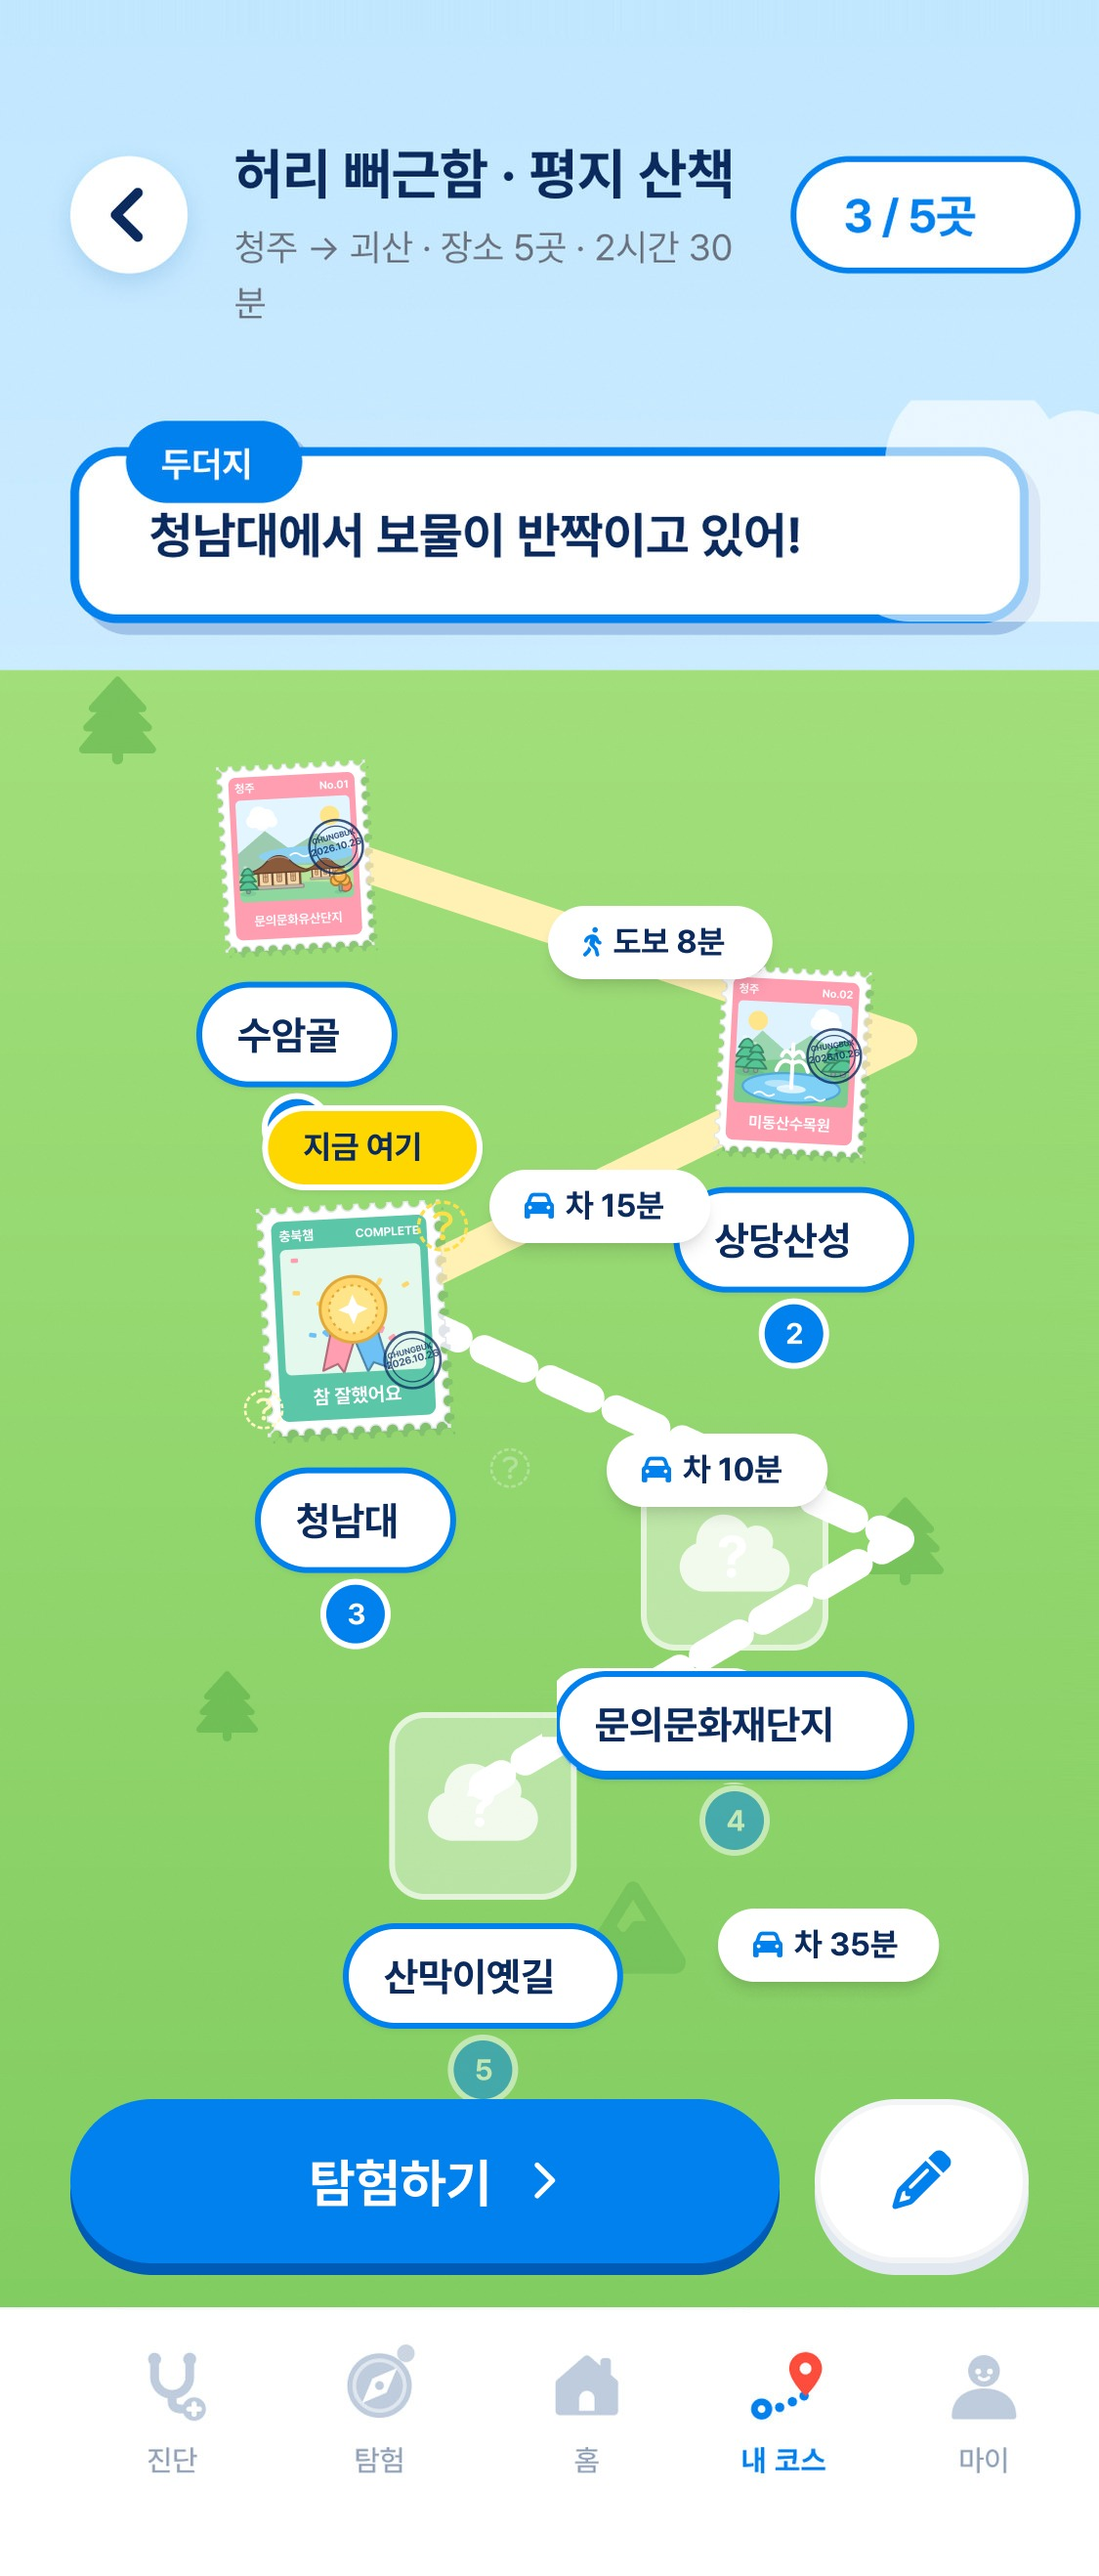
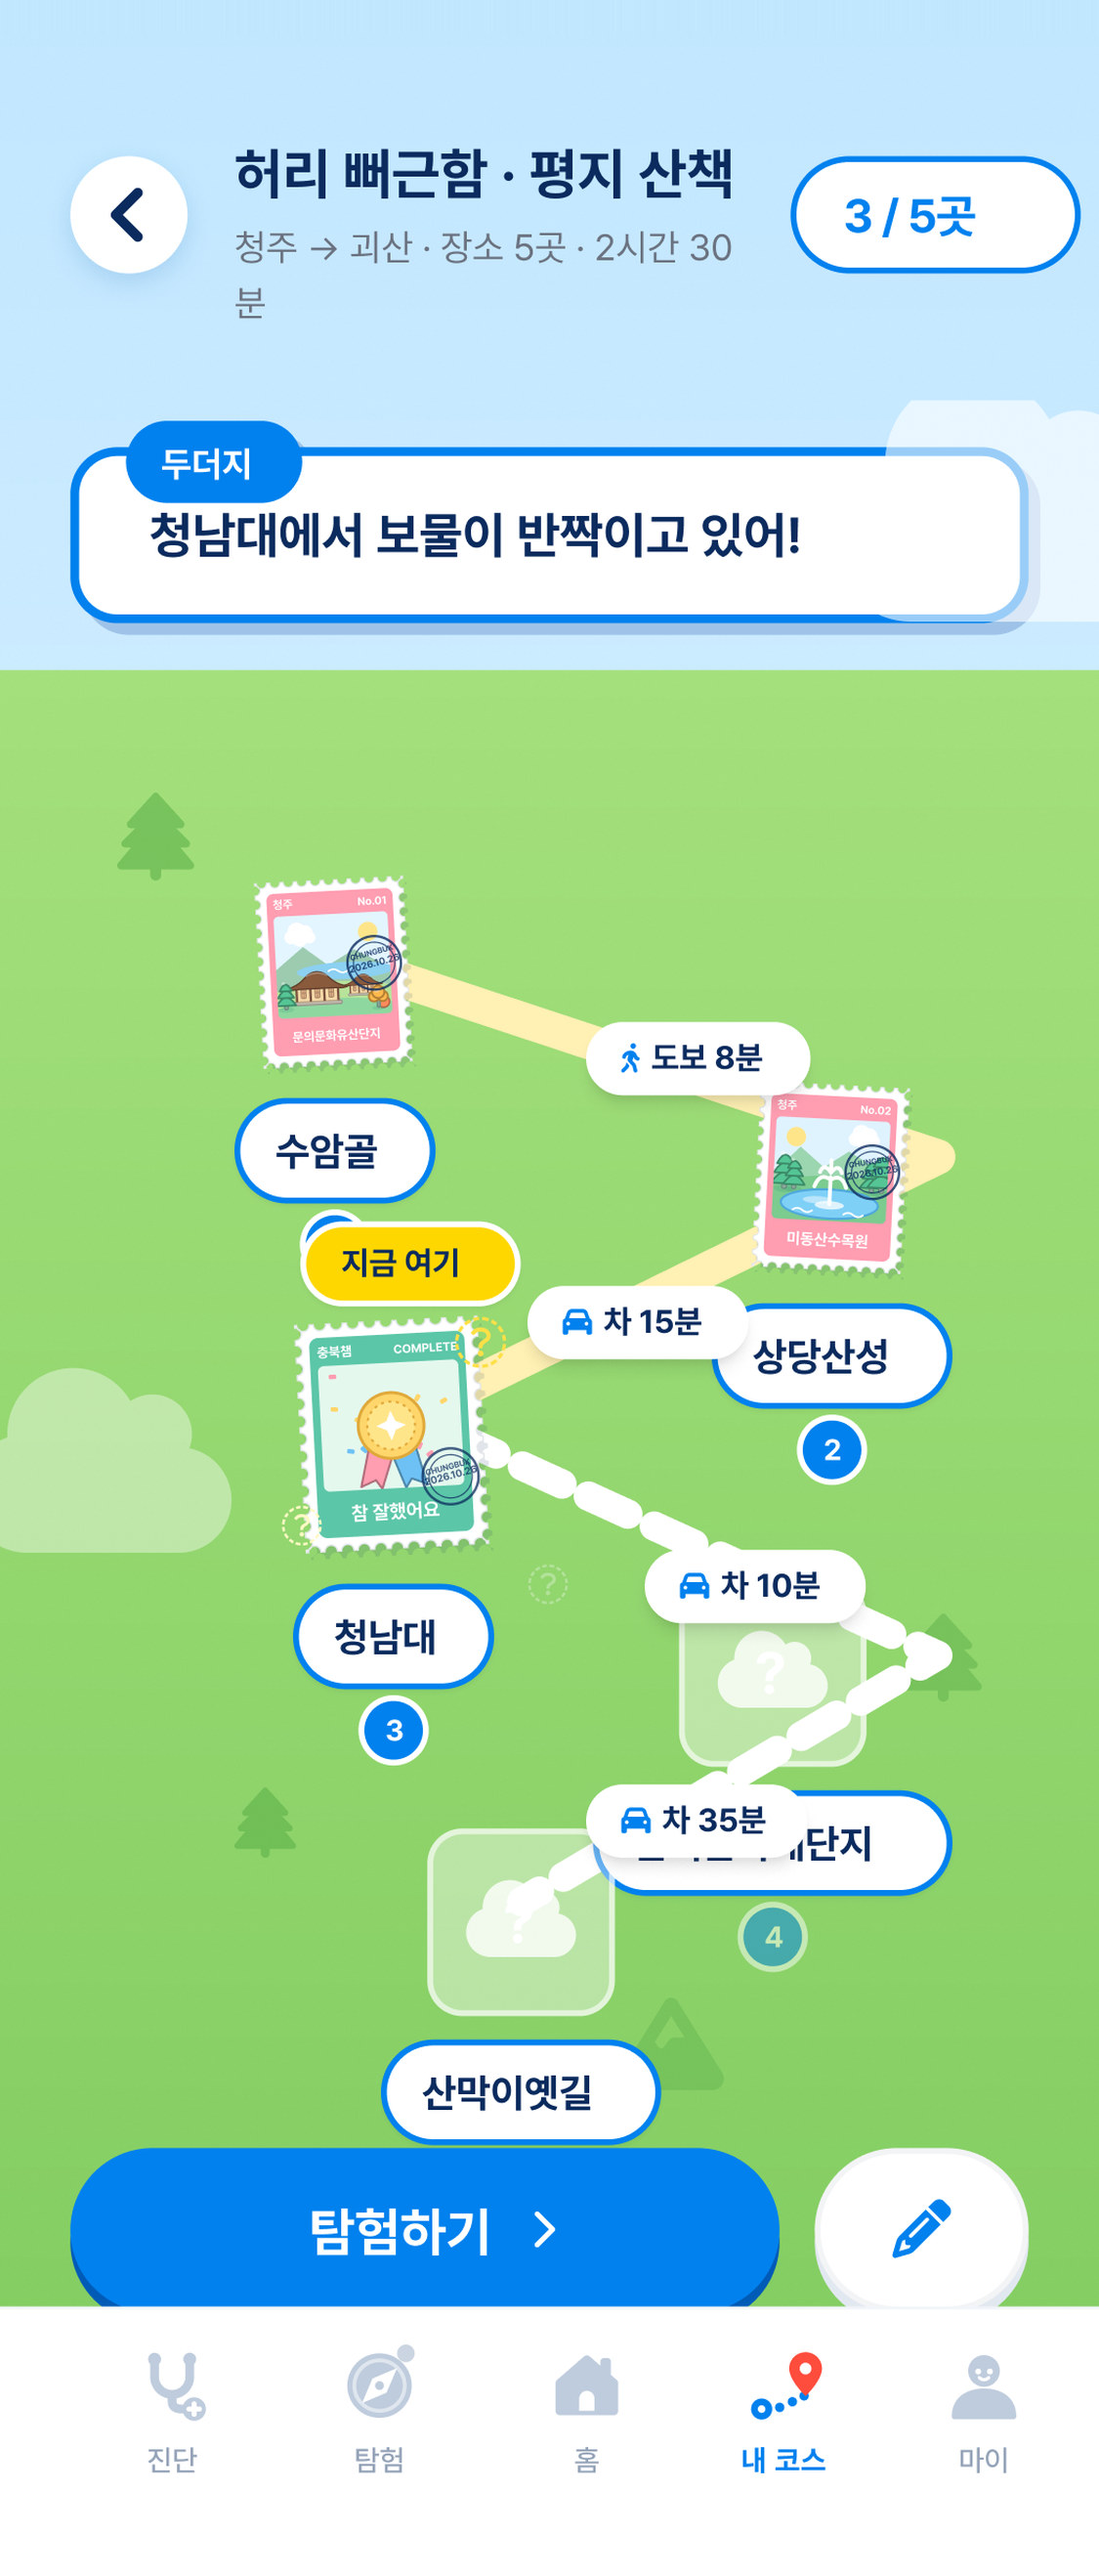
코스 지도 피그마 원본 그대로 복원, 청주 두더지가 도장 핀 안 가리게, 화면 양옆 배경 맞춤
Claude-Session: https://claude.ai/code/session_01AiJtLAmQ687dwMmwDkBebg

Changed region(s): [[0.0, 0.2489, 0.9333, 0.9021], [0.1867, 0.6533, 0.28, 0.7155]]

diff --git a/app.js b/app.js
@@ -402,7 +402,7 @@
       { x: 24, y: 372, w: 345, h: 140, go: "coursemap" }, { x: 24, y: 522, w: 345, h: 140, go: "coursemap" },
       { x: 24, y: 687, w: 345, h: 52, fn: "newDiag" }, ...TAB(770) ] },
     coursemap: { w: 375, h: 917, tab: "내 코스", hot: [ { x: 18, y: 85, w: 52, h: 52, back: true },
-      { x: 24, y: 755, w: 242, h: 56, go: "cheongju" }, { x: 278, y: 755, w: 73, h: 56, go: "courseEdit" }, ...TAB(835).map((t) => ({ ...t, x: t.x * 375 / 393, w: 66 })) ] },
+      { x: 24, y: 771, w: 242, h: 56, go: "cheongju" }, { x: 278, y: 771, w: 73, h: 56, go: "courseEdit" }, ...TAB(835).map((t) => ({ ...t, x: t.x * 375 / 393, w: 66 })) ] },
     courseEdit: { img: "course-edit", w: 375, h: 879, hot: [ { x: 18, y: 62, w: 52, h: 52, back: true },
       { x: 24, y: 783, w: 117, h: 56, back: true }, { x: 153, y: 783, w: 198, h: 56, fn: "saveOrder" } ] },
     mypage: { w: 393, h: 865, tab: "마이", hot: [
@@ -441,7 +441,7 @@
       const inCard = (h) => cd && h.y >= cd.y0 && h.y < cd.y1;
       const tg = d.toggle ? `<button class="tgl ${S.toggles?.[name] ? "on" : ""}" data-tgl="${name}" aria-label="${d.toggle.label}" style="left:${(d.toggle.x * K).toFixed(1)}px;top:${(d.toggle.y * K).toFixed(1)}px;width:${(d.toggle.w * K).toFixed(1)}px;height:${(d.toggle.h * K).toFixed(1)}px;--kn:${(d.toggle.h * K * 0.76).toFixed(1)}px"><i></i></button>` : "";
       return `
-      <section class="screen shot-screen" style="padding-bottom:${nb}px;background:url('screens/edge/${file}.png') 0 100% / 100% ${(d.h * K).toFixed(0)}px no-repeat ${TOPC[file] || "#c6e6fb"}">
+      <section class="screen shot-screen" style="padding-bottom:${nb}px;background:url('screens/edge/${file}.png') 0 ${(APPH - nb - H * K).toFixed(1)}px / 100% ${(d.h * K).toFixed(0)}px no-repeat ${TOPC[file] || "#c6e6fb"}">
         <div class="shot" style="width:${W.toFixed(1)}px;height:${(H * K).toFixed(1)}px">
           <img src="${d.mapImg || src}" alt="" draggable="false" style="width:${W.toFixed(1)}px;height:auto">
           ${all.filter(([h]) => !inCard(h)).map(([h, i]) => hotBtn(h, i, K)).join("")}${tg}
@@ -929,7 +929,7 @@
     // 괴산과 같은 상단 머리(뒤로 화살표·경로)
     const head = overlay(el, name, 20, 65, 200, 44, `<div class="ghead cjhead"><button class="gback" data-act="cjback">‹</button><span class="gcrumb">충청북도 <b>›</b> <strong>청주</strong></span></div>`, "cj-head");
     head.querySelector('[data-act="cjback"]').onclick = () => tabGo("탐험");
-    const moleAt = (i) => { const [x, y, w] = CJ[i].box; return [x + w * 0.62, y - 12]; };
+    const moleAt = (i) => { const [x, y, w] = CJ[i].box; return [x + w * 0.04, y - 8]; }; // 도장 핀(오른쪽 위)과 안 겹치게 왼쪽 위
     const [mx, my] = moleAt(g.cur);
     const mo = overlay(el, name, mx, my, 38, 34, '<img class="gmole cjmole" src="assets/map/mole-slot.png" alt="">', "cj-moleo");
     mo.style.pointerEvents = "none";

diff --git a/index.html b/index.html
@@ -21,6 +21,6 @@
   <div id="toast" role="status"></div>
   <script src="data.js?v=1794328088"></script>
   <script src="tabicons.js?v=1"></script>
-  <script src="app.js?v=1794332219"></script>
+  <script src="app.js?v=1794333032"></script>
 </body>
 </html>
